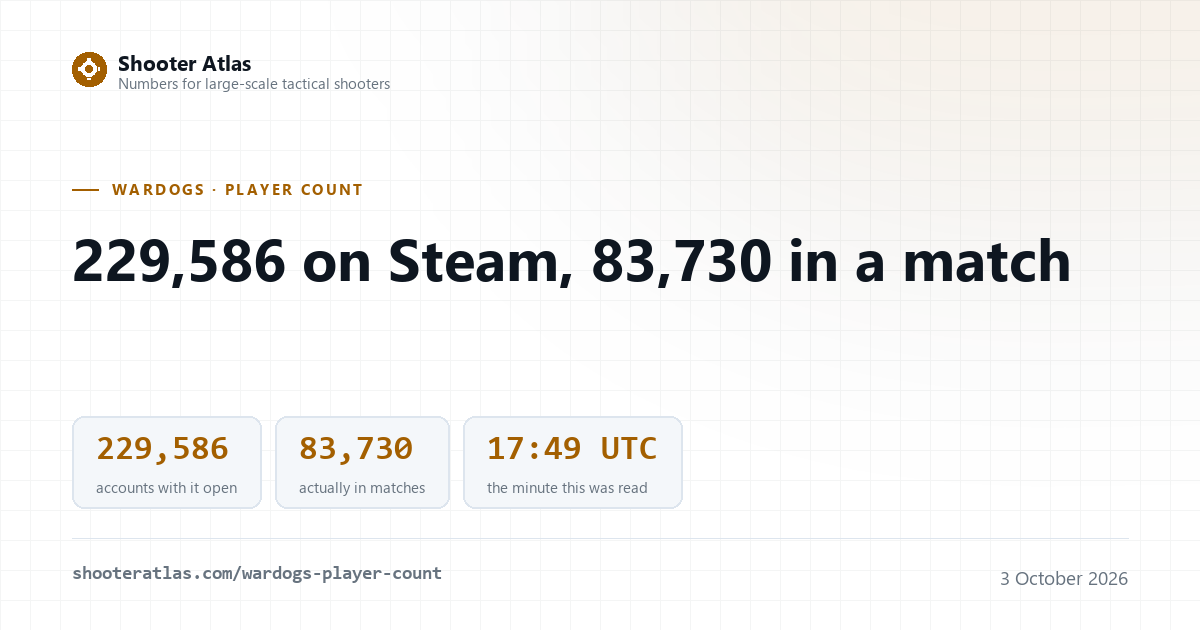
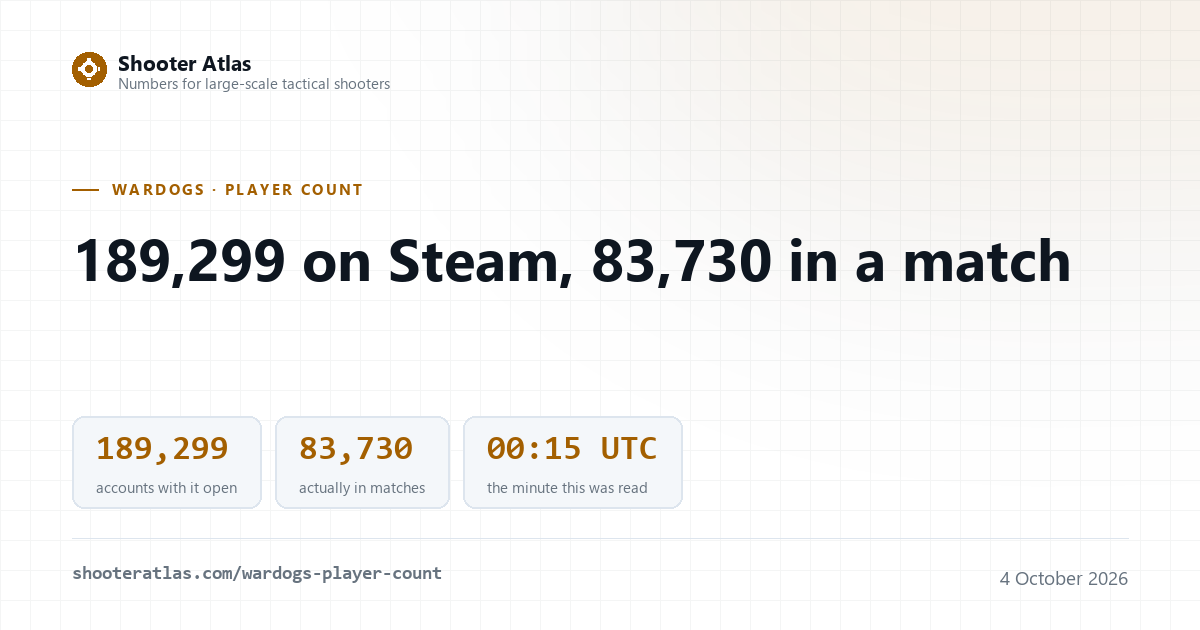
wardogs console: two store pages up, 2028 and no price
New page /wardogs-console, built for the word "wardogs console" (320).
It answers from the two console listings field by field, which is the part
none of the tracked sites prints: Sony's PlayStation listing (state
Announced, a release field typed as a year and valued 2028, wishlistable,
no price, "Supports up to 99 online players with PS Plus") and Microsoft's
Xbox listing (Xbox Series X|S, ESRB MATURE 17+, 2-100 players, Out of Stock,
no release date, no price), beside the studio's own pinned Q&A and its
launch-day line "COMING TO CONSOLES IN 2028".

Also in this commit, from the same daily run:

- src/data/live.mjs: the 00:15 UTC reading of all 14 tracked appids. Only
  the count line and the readAt line per game were touched.
- the six player-count cards redrawn from that one data file, and the home
  card redrawn because the build's pages-published figure moved.

Not touched, by F3: no other page, and not the footer's Pages list or the
home page's table. The two wiring items check-generated reports for this
page are that rule, not a fault.

diff --git a/tools/make-page-images.py b/tools/make-page-images.py
@@ -348,6 +348,10 @@ PAGES = [
      "A year, a wishlist button and no price",
      [("2028", "consoles, year only"), ("Announced", "PS Store listing state"), ("Windows", "the one platform Valve lists")],
      "/wardogs-game-ps5", "3 October 2026"),
+    ("wardogs-console", "WARDOGS · Console",
+     "Two store pages up, 2028 and no price",
+     [("2028", "the only console date"), ("2", "console listings up"), ("No price", "on either listing")],
+     "/wardogs-console", "4 October 2026"),
     # The player-count cards read src/data/live.mjs through pc_card(), so the
     # number on the card and the number on the page are the same reading.
     pc_card("wardogsPlayerCount", "WARDOGS · Player count", "wardogs-player-count", middle="match"),
